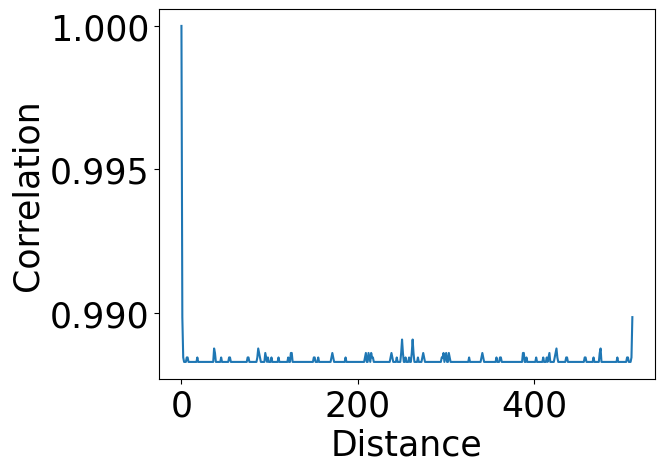
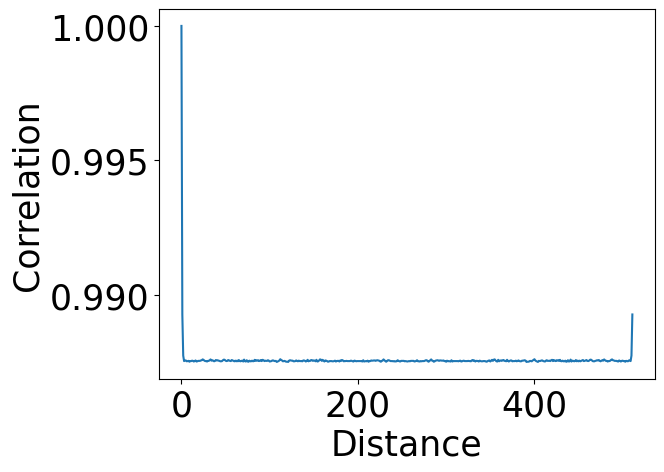
adding ising from partition and allowing to run steps while not saving data

Changed region(s): [[0.2711, 0.7119, 0.9639, 0.7712], [0.0602, 0.5932, 0.241, 0.7119], [0.0602, 0.2966, 0.241, 0.4153]]

diff --git a/ising.py b/ising.py
@@ -52,9 +52,10 @@ class Method(enum.Enum):
 
 @dataclasses.dataclass
 class Info:
-    magnetization: List[int]
+    magnetization: List[float]
     energy: List[float]
     number_of_spins: int
+    temperature: float
     correlation: List[np.ndarray] = dataclasses.field(default_factory=list)
 
     @property
@@ -79,11 +80,11 @@ class Info:
 
     @property
     def mean_energy(self):
-        return np.mean(self.mean_energies)
+        return np.mean(self.mean_energies[100:])
 
     @property
     def specific_heat(self):
-        return np.var(self.mean_energies)
+        return np.var(self.mean_energies) / (self.temperature**2)
 
     @property
     def mean_magnetization_per_step(self):
@@ -147,10 +148,12 @@ class Simulation:
         self.current_energy = self._get_energy(self.lattice)
         self.step_made = 0
 
-    def run(self, number_of_sweeps):
+    def run(self, number_of_sweeps, should_save=True):
         for _ in range(number_of_sweeps * self.number_of_spins):
-            self._run_step()
-            self.step_made += 1
+            events = self._run_step()
+            if should_save:
+                self.step_made += 1
+                self._save_step(events)
 
     def show_lattice(self, output_file=None):
         if self.dim == 1:
@@ -194,6 +197,7 @@ class Simulation:
             number_of_spins=self.number_of_spins,
             energy=[self._get_energy(self.lattice)],
             magnetization=[np.sum(self.lattice)],
+            temperature=self.temperature,
         )
 
     def _save_step(self, events):
@@ -228,7 +232,7 @@ class Simulation:
         else:
             raise ValueError("Invalid method")
 
-        self._save_step(events)
+        return events
 
     def _get_potential_events(self):
         if self.flip_dynamics == FlipDynamics.SINGLE:
@@ -554,6 +558,7 @@ def run_chosen_simulation(output_dir=None):
         method=Method.METROPOLIS,
         flip_dynamics=FlipDynamics.SINGLE,
     )
+    simulation.run(200, should_save=False)
     simulation.run(1000)
     plt.plot(simulation.info.mean_correlation)
     plt.xlabel("Distance")

diff --git a/ising_from_partition.py b/ising_from_partition.py
@@ -1,0 +1,36 @@
+import sympy
+import numpy as np
+
+
+def main_sympy(number_of_spins, magnetic_field, magnetization_coefficient, temperature):
+    beta = sympy.symbols("beta")
+
+    lamda_plus = sympy.cosh(magnetic_field * beta) * sympy.exp(
+        beta * magnetization_coefficient
+    ) + sympy.sqrt(
+        sympy.exp(2 * beta * magnetization_coefficient)
+        * sympy.sinh(magnetic_field * beta) ** 2
+        + sympy.exp(-2 * beta * magnetization_coefficient)
+    )
+    lamda_minus = sympy.cosh(magnetic_field * beta) * sympy.exp(
+        beta * magnetization_coefficient
+    ) - sympy.sqrt(
+        sympy.exp(2 * beta * magnetization_coefficient)
+        * sympy.sinh(magnetic_field * beta) ** 2
+        + sympy.exp(-2 * beta * magnetization_coefficient)
+    )
+    partition_function = lamda_plus**number_of_spins + lamda_minus**number_of_spins
+    log_partition_function = sympy.log(partition_function)
+    energy = -sympy.diff(log_partition_function, beta)
+    heat_capacity = sympy.diff(energy, beta) * beta**2
+    print(f"Energy: {float(energy.subs({beta: 1/temperature}))}")
+    print(f"Specific heat capacity: {float(heat_capacity.subs({beta: 1/temperature}))}")
+
+
+if __name__ == "__main__":
+    main_sympy(
+        number_of_spins=512,
+        magnetic_field=1,
+        magnetization_coefficient=1,
+        temperature=1,
+    )
